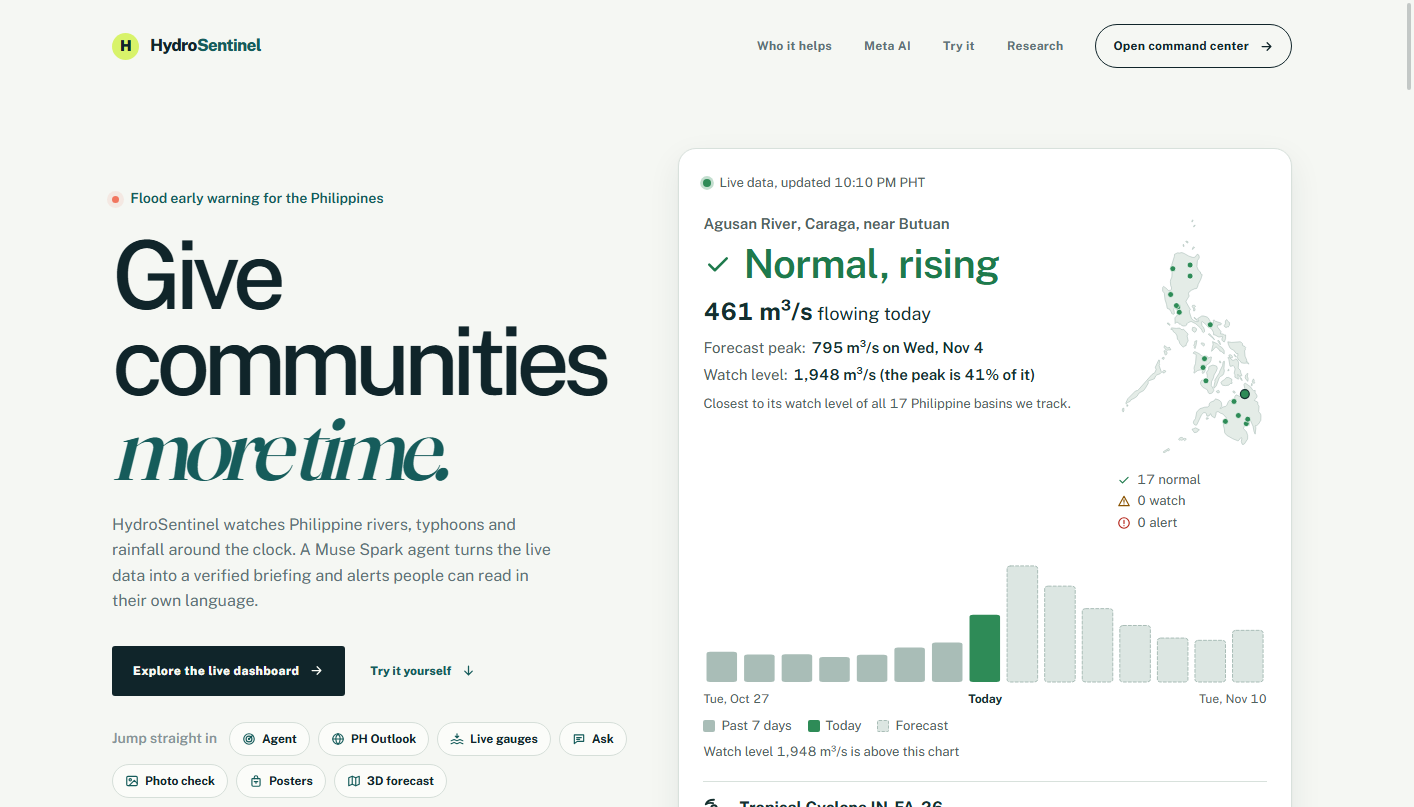
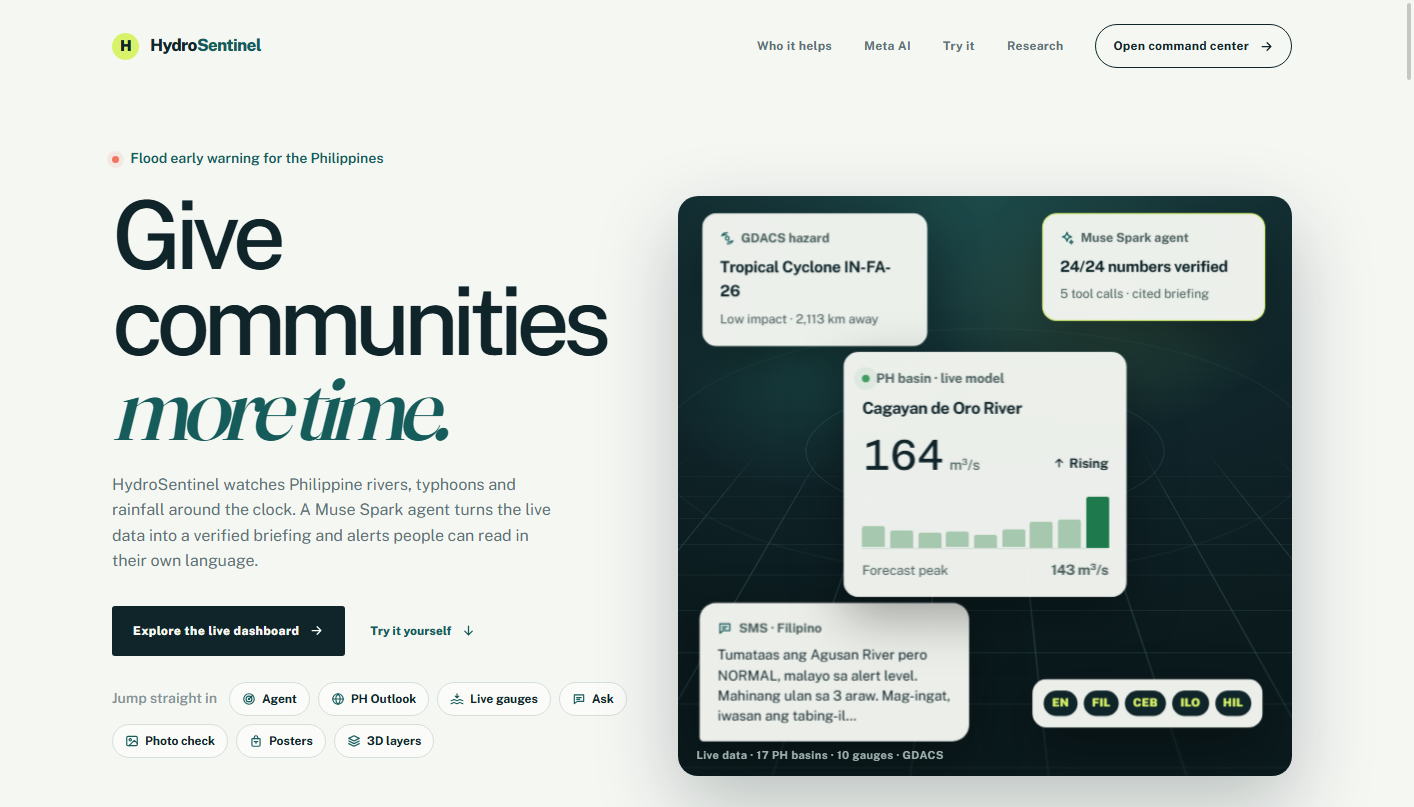
Document the 3D flood layers and refresh the README screenshots

diff --git a/docs/engineering/RFC-0003-3d-flood-layers.md b/docs/engineering/RFC-0003-3d-flood-layers.md
@@ -1,0 +1,155 @@
+---
+type: RFC
+id: "0003"
+title: "3D flood layers in the dashboard"
+status: Implemented
+version: "1.0.0"
+created: "2026-11-03"
+updated: "2026-11-03"
+author: "Debb1ie"
+reviewers: ["Debb1ie"]
+approvers: ["Debb1ie"]
+target_version: "v1.0.0"
+implementation_branch: "main"
+github_issue: ""
+github_pr: ""
+related_prds: ["PRD-0001"]
+related_pds: []
+related_adrs: ["ADR-0001", "ADR-0007"]
+related_tds: ["AD-0001"]
+related_tps: ["TP-0001"]
+milestone: "Meta Global AI Developer Hackathon 2026 submission"
+execution_state: "Completed"
+approvals:
+  tech_lead: { name: "Debb1ie", date: "2026-11-03", approved: true }
+  architect: { name: "Debb1ie", date: "2026-11-03", approved: true }
+  product: { name: "Debb1ie", date: "2026-11-03", approved: true }
+changelog:
+  - version: "1.0.0"
+    date: "2026-11-03"
+    author: "Debb1ie"
+    changes: "Initial version, implemented as the 3D layers tab of the command center"
+---
+
+# RFC-0003: 3D flood layers in the dashboard
+
+## Document Information
+
+| Field | Value |
+|---|---|
+| Status | Implemented |
+| Author | Debb1ie |
+| Created | 2026-11-03 |
+| Location | `frontend/src/app/featured/layers.tsx`, tab `?tab=layers` |
+| Supersedes | The basin-column scene of [RFC-0002](RFC-0002-research-3d-forecast-layer.md) as the main 3D view. The Research page keeps the method and live scores. |
+
+## Document Changelog
+
+| Version | Date | Author | Changes |
+|---|---|---|---|
+| 1.0.0 | 2026-11-03 | Debb1ie | Initial version |
+
+## Summary
+
+An exploded stack of five map layers over the Philippines, rendered with three.js inside the dashboard: terrain, rainfall
+forecast, river flow on a chosen day, the 7-day forecast peak, and a combined flood-watch index. It is the GIS "layer
+stack" figure made live and interactive: drag to orbit, change the day, pull the layers apart, hide any layer, and
+hover any point to read its value, coordinates and the basin it comes from.
+
+## Background
+
+### Problem Statement
+
+The outlook map shows 17 points. A planner asking "where is the risk building?" has to combine three things in their
+head: where the land is high (water runs off fast), where rain is coming, and which rivers are rising. A layer stack is
+how hydrologists present exactly that combination, so the dashboard shows it the same way.
+
+### Goals
+
+1. Put terrain, rain and river state on one geographic frame, with a fourth derived layer that combines them.
+2. Use only live or reproducible open data, and say on screen how each layer is made.
+3. Work on desktop, tablet and phone, with reduced motion respected.
+
+### Non-Goals
+
+- Flood inundation mapping. We have no river network or hydraulic model, so no layer claims to show where water will go.
+- Replacing PAGASA or local DRRM warnings.
+
+## Proposal
+
+### Layers (bottom to top)
+
+| Layer | Source | Method | Unit |
+|---|---|---|---|
+| Terrain | SRTM via the public AWS Terrain Tiles (Terrarium, zoom 7) | Sampled every 0.1° into `public/data/ph-elevation.json` (105 × 170 cells), drawn as a displaced relief surface, height × 0.0065 units per metre, hypsometric tint, lit from the north-west | m |
+| Rainfall on the chosen day | Open-Meteo forecast, `daily=precipitation_sum`, 7 days | About 120 land points on a 0.5° grid, fetched by the browser in two requests and cached for one hour; inverse-distance weighting (power 2, points within 150 km) onto a 122 × 203 texture | mm |
+| River flow on the chosen day | GloFAS v4 via Open-Meteo, through `/api/outlook` | Flow ÷ the basin's watch level (5-year 95th percentile). Each land pixel takes its nearest basin outlet (nearest-outlet zones); full strength within 60 km, fading to 12% by 180 km | × watch level |
+| Forecast peak, next 7 days | Same | Highest forecast flow in the 7 days ÷ watch level, same zones | × watch level |
+| Flood-watch index | Derived | max(river ratio × distance fade, 3-day rain ÷ 150 mm) | × watch level |
+
+The 150 mm reference only puts rain on the same scale as river flow. It is our choice, not a PAGASA threshold, and the
+page says so.
+
+### Why nearest-outlet zones and not interpolation
+
+River flow is not a continuous field: two neighbouring valleys can carry very different flows. Interpolating between
+outlets (as we do for rain) would invent values. Nearest-outlet zones are an honest stand-in for catchment boundaries,
+and the fade makes it visible where the nearest outlet is far away. The hover read-out names the outlet and its
+distance and flags "lower confidence" beyond 60 km. True catchment polygons (for example HydroBASINS level 6) are the
+planned replacement.
+
+### Rendering
+
+- Each data layer is a canvas texture on a plane, transparent outside the Philippine outline (a land mask drawn from the
+  Natural Earth outline). Every plate has a faint sheet, a frame and the coastline so empty areas still read as a layer.
+- White dots mark the 17 basin outlets on the three river layers.
+- HTML labels are pinned to the right edge of each plate by projecting a point on the plate every frame.
+- Layer spacing animates towards its target; with reduced motion it jumps.
+- On narrow screens the camera backs off in proportion to the aspect ratio, and the labels hide (the legend below names
+  every layer).
+
+### Configuration Changes
+
+The Content Security Policy now allows `https://api.open-meteo.com` in `connect-src`, because the browser fetches the
+rainfall forecast directly. No key is involved, and no user data is sent.
+
+## Testing Strategy
+
+- Type check and lint on every build.
+- Visual checks at 1440, 768 and 390 px with live data: all five layers render, labels track the plates, the day slider
+  changes the flow, rain and index layers, and hover read-outs show values and coordinates.
+- Failure path: if the outlook or Open-Meteo fails, the remaining layers still render and the panel states the error.
+
+## Security Considerations
+
+- No new server endpoint. The elevation grid is a static file built once from public data.
+- The browser sends only coordinates of a fixed grid to Open-Meteo.
+
+## Performance Considerations
+
+- Zone textures: 244 × 406 pixels × 17 outlets, under 50 ms.
+- Rain interpolation: about 25,000 pixels × 120 points per day, computed when the day changes.
+- Elevation file: 40 KB.
+
+## Abandoned Ideas
+
+### Elevation from the Open-Meteo elevation API
+
+The free tier allows about 600 locations a minute and 5,000 an hour. The 17,850-point grid hit the limit within a
+minute, so we switched to the public terrain tiles (35 tile downloads, once).
+
+### Interpolated river surface
+
+Rejected for the reason above: it would show flow where no river carries it.
+
+## Open Questions
+
+1. Replace nearest-outlet zones with HydroBASINS catchments.
+2. Add observed rainfall (for example GPM IMERG) alongside the forecast.
+
+## References
+
+- AWS Terrain Tiles: https://registry.opendata.aws/terrain-tiles/
+- Open-Meteo forecast API: https://open-meteo.com/en/docs
+- GloFAS v4 via the Open-Meteo Flood API: https://open-meteo.com/en/docs/flood-api
+- Shepard, D. (1968). A two-dimensional interpolation function for irregularly-spaced data. Proceedings of the 23rd ACM National Conference.

diff --git a/README.md b/README.md
@@ -6,7 +6,7 @@ Live demo: https://hydrosentinel-plum.vercel.app (no login needed)
 Problem statement: **Build for Your World**
 Built for the Meta Global AI Developer Hackathon 2026. See [HACKATHON.md](HACKATHON.md) for everything built during the event.
 
-![HydroSentinel landing page with the live river status card](docs/images/landing.png)
+![HydroSentinel landing page with live river, typhoon and agent cards](docs/images/landing.png)
 
 ## The problem
 
@@ -30,13 +30,25 @@ About 20 tropical cyclones enter the Philippine Area of Responsibility each year
 | Ask | Questions in English, Filipino or Taglish, answered from live data |
 | Photo check | SAM 3.1 measures how much of a field photo is flooded |
 | Posters | Muse Image community posters matched to the day's alert level |
-| Research | A 3D forecast layer and heat map across the country, with the full methodology and live evaluation |
+| 3D layers | Terrain, rainfall forecast, river flow, forecast peak and a flood-watch index stacked over the Philippines |
+| Research | The forecasting method, parameters and live skill scores |
 | Data checker | Validates a CSV of river readings and reports gaps, duplicates and bad values |
 
-| | |
-|---|---|
-| ![Agent briefing with verified numbers](docs/images/dashboard-agent.png) | ![Philippine basin outlook](docs/images/dashboard-outlook.png) |
-| ![3D forecast layer on the Research page](docs/images/research-3d.png) | ![Mobile view](docs/images/mobile-hero.png) |
+### 3D flood layers
+
+![Five map layers stacked over the Philippines: terrain, rainfall, river flow, forecast peak and the flood-watch index](docs/images/dashboard-layers.png)
+
+### Is my river safe right now?
+
+![The river closest to its watch level, with its 15-day flow, the nearest cyclone, the verification count and the SMS alert](docs/images/river-status.png)
+
+### Flood-watch agent
+
+![Agent briefing with every number verified against the data it cites](docs/images/dashboard-agent.png)
+
+### Philippine river outlook
+
+![17 Philippine basins on a map with 30-day flow forecasts](docs/images/dashboard-outlook.png)
 
 ## How it uses Meta AI
 

diff --git a/docs/README.md b/docs/README.md
@@ -24,4 +24,5 @@ These documents follow the templates from [nmblr.agent-kit](https://github.com/t
 
 - [RFC-0001: Verifiable flood-watch agent](engineering/RFC-0001-verifiable-flood-watch-agent.md): tools, briefing schema, verification, budget and streaming (Implemented).
 - [RFC-0002: Research page and 3D forecast layer](engineering/RFC-0002-research-3d-forecast-layer.md): the three.js view of all basins and the live method page (Implemented).
+- [RFC-0003: 3D flood layers in the dashboard](engineering/RFC-0003-3d-flood-layers.md): terrain, rainfall, river flow, forecast peak and a flood-watch index, stacked and interactive (Implemented).
 - [TP-0001: HydroSentinel test plan](engineering/TP-0001-test-plan.md): test levels, the 56 automated backend tests, manual checks and release criteria.
